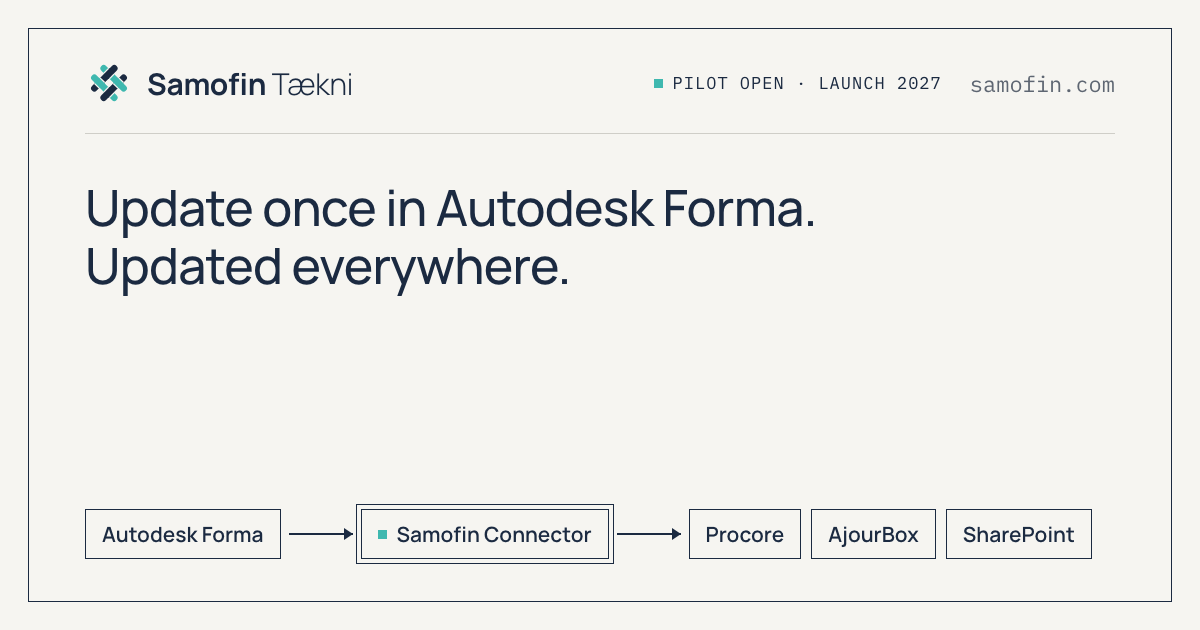
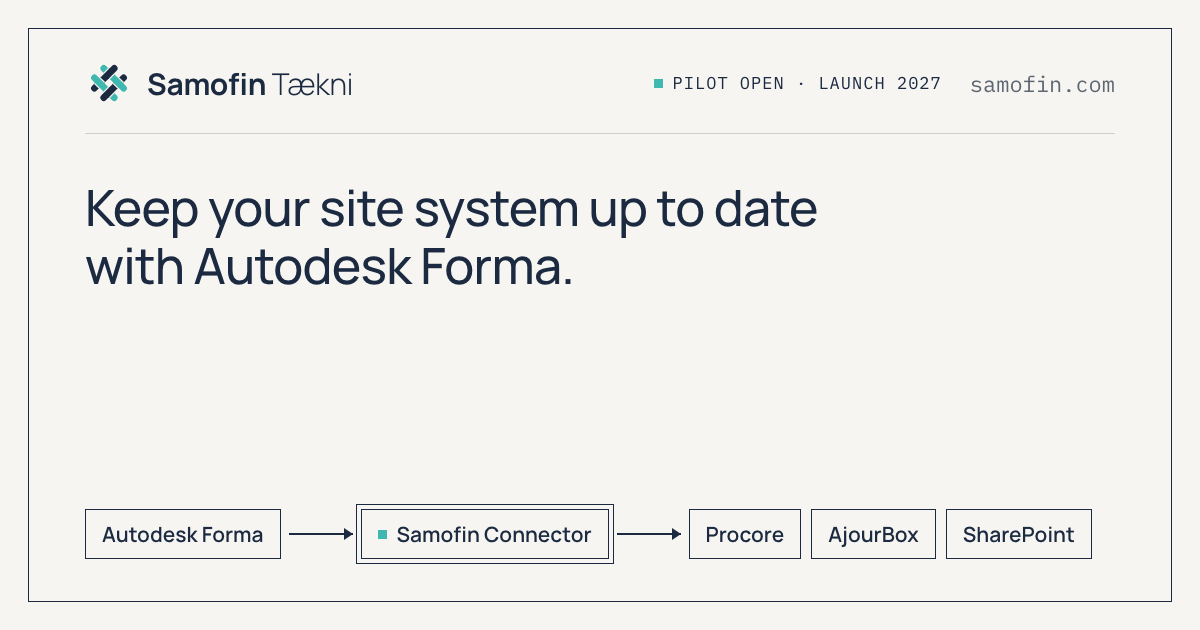
Rewrite site copy in plain language and drop slogan-style headlines

Changed region(s): [[0.0617, 0.3016, 0.6783, 0.3619], [0.0617, 0.3921, 0.4933, 0.4524]]

diff --git a/src/index.html b/src/index.html
@@ -4,7 +4,7 @@
 <meta charset="utf-8">
 <meta name="viewport" content="width=device-width, initial-scale=1">
 <title data-i18n="meta.title">Autodesk Forma (ACC) to Procore, AjourBox &amp; SharePoint – Samofin</title>
-<meta name="description" data-i18n-content="meta.description" content="Update once in Autodesk Forma, updated everywhere. Samofin Connector copies new drawings, models and documents to Procore, AjourBox and SharePoint.">
+<meta name="description" data-i18n-content="meta.description" content="Samofin Connector copies new drawings, models and documents from Autodesk Forma to Procore, AjourBox and SharePoint, so the site always works from the current revision.">
 <meta name="theme-color" content="#F6F5F1">
 <link rel="canonical" href="https://samofin.com/" data-i18n-href="url.self">
 <link rel="alternate" hreflang="en" href="https://samofin.com/">
@@ -15,7 +15,7 @@
 <meta property="og:locale" content="en_GB" data-i18n-content="og.locale">
 <meta property="og:locale:alternate" content="is_IS" data-i18n-content="og.locale.alternate">
 <meta property="og:title" content="Autodesk Forma (ACC) to Procore, AjourBox &amp; SharePoint – Samofin" data-i18n-content="meta.title">
-<meta property="og:description" content="Update once in Autodesk Forma, updated everywhere. Samofin Connector copies new drawings, models and documents to Procore, AjourBox and SharePoint." data-i18n-content="meta.description">
+<meta property="og:description" content="Samofin Connector copies new drawings, models and documents from Autodesk Forma to Procore, AjourBox and SharePoint, so the site always works from the current revision." data-i18n-content="meta.description">
 <meta property="og:site_name" content="Samofin Tækni">
 <meta property="og:image" content="https://samofin.com/og-image.png">
 <meta property="og:image:width" content="1200">
@@ -241,7 +241,7 @@ dl.rows dd { flex: 1 1 260px; margin: 0; font-size: 17px; line-height: 1.5; colo
           <a href="#problem" data-i18n="nav.problem">Problem</a>
           <a href="#how" data-i18n="nav.how">How it works</a>
           <a href="#files" data-i18n="nav.files">Files</a>
-          <a href="#principles" data-i18n="nav.principles">Principles</a>
+          <a href="#principles" data-i18n="nav.principles">Data handling</a>
           <a href="#pricing" data-i18n="nav.pricing">Pricing</a>
           <a href="#faq" data-i18n="nav.faq">FAQ</a>
         </nav>
@@ -256,8 +256,8 @@ dl.rows dd { flex: 1 1 260px; margin: 0; font-size: 17px; line-height: 1.5; colo
 
       <main>
         <section id="top" class="hero">
-          <h1 data-i18n="hero.title">Update once in Autodesk Forma, updated everywhere</h1>
-          <p data-i18n="hero.lede">Latest drawings, models and documents in Procore, AjourBox and SharePoint, automatically. Designers publish in Forma Data Management (formerly Autodesk Docs) as usual. Contractors get every new revision in their own system without downloading or re-uploading anything.</p>
+          <h1 data-i18n="hero.title">Keep Procore, AjourBox and SharePoint up to date with Autodesk Forma</h1>
+          <p data-i18n="hero.lede">Samofin Connector copies new drawings, models and documents from Forma Data Management (formerly Autodesk Docs) to the system your site team uses. Designers keep working in Forma as they do today, and the site team sees each new revision in its own system without anyone downloading and uploading files.</p>
           <div class="launch">
             <!--email_off--><a class="cta" href="mailto:hello@samofin.com?subject=Samofin%20Connector%20pilot&amp;body=Hi%2C%0D%0A%0D%0AWe%27d%20like%20to%20join%20the%20Samofin%20Connector%20pilot.%0D%0A%0D%0ACompany%3A%20%0D%0ATarget%20system%20%28Procore%20%2F%20AjourBox%20%2F%20SharePoint%29%3A%20%0D%0AProject%20we%27d%20start%20with%3A%20%0D%0AWhen%20we%27d%20like%20to%20start%3A%20%0D%0A%0D%0ABest%20regards%2C%0D%0A" data-i18n="hero.cta" data-i18n-href="hero.cta.href">Join the pilot</a><!--/email_off-->
             <span class="label" data-i18n="hero.status">Pilot places open now · general launch 2027</span>
@@ -268,9 +268,9 @@ dl.rows dd { flex: 1 1 260px; margin: 0; font-size: 17px; line-height: 1.5; colo
         </section>
 
         <section id="problem" class="split">
-          <h2 data-i18n="problem.title">Manual copying puts old drawings on site</h2>
+          <h2 data-i18n="problem.title">When files are copied by hand, the site falls behind</h2>
           <div>
-            <p data-i18n="problem.body">Architects and engineers publish in Forma Data Management, more and more often because the owner requires it. Site work and quality control run in Procore, AjourBox or SharePoint. So someone copies every revision across by hand. It takes time every week, and one missed revision means building from an outdated drawing.</p>
+            <p data-i18n="problem.body">Architects and engineers publish their drawings in Forma Data Management, increasingly because the building owner asks for it. Contractors, however, run site work and quality control in Procore, AjourBox or SharePoint. Someone has to copy each revision from one system to the other. It is repetitive work, and a single missed revision can mean building from an outdated drawing.</p>
             <figure class="fig-block">
               <div class="drift" role="table" aria-label="Drawing versions in Forma and on site" data-i18n-aria-label="drift.table.label">
                 <div class="drift-row drift-head" role="row"><span role="columnheader" data-i18n="drift.drawing">DRAWING</span><span role="columnheader">FORMA</span><span role="presentation"></span><span role="columnheader" data-i18n="drift.site">SITE</span><span role="columnheader" data-i18n="drift.status">STATUS</span></div>
@@ -282,13 +282,13 @@ dl.rows dd { flex: 1 1 260px; margin: 0; font-size: 17px; line-height: 1.5; colo
                 <span><span class="sw-hand"></span><span data-i18n="drift.legend.hand">copied by hand</span></span>
                 <span><span class="sw-stale stale"></span><span data-i18n="drift.legend.stale">outdated on site</span></span>
               </div>
-              <figcaption data-i18n="drift.caption">Fig. 1 · Example. Forma has the latest revision; the site system has whatever was last copied across.</figcaption>
+              <figcaption data-i18n="drift.caption">Fig. 1 · Example. Forma holds the latest revision. The site system holds the last one someone copied.</figcaption>
             </figure>
           </div>
         </section>
 
         <section id="how" class="split">
-          <h2 data-i18n="how.title">Set up once, synced from then on</h2>
+          <h2 data-i18n="how.title">After setup, new revisions are copied automatically</h2>
           <div>
             <figure>
               <div class="dia-wide" aria-hidden="true">
@@ -338,22 +338,22 @@ dl.rows dd { flex: 1 1 260px; margin: 0; font-size: 17px; line-height: 1.5; colo
                 </div>
               </div>
 
-              <figcaption data-i18n="fig.caption">Fig. 2 · A new version of S-101 in Forma Data Management is copied to each target and logged.</figcaption>
+              <figcaption data-i18n="fig.caption">Fig. 2 · When S-101 moves to V4 in Forma Data Management, the connector copies it to each site system and logs the copy.</figcaption>
             </figure>
 
             <ol class="rows steps">
-              <li><span class="n">1</span><span class="t" data-i18n="step.connect.t">Connect</span><span class="d" data-i18n="step.connect.d">Your Autodesk admin adds Samofin Connector as a custom integration with read-only access.</span></li>
-              <li><span class="n">2</span><span class="t" data-i18n="step.map.t">Map</span><span class="d" data-i18n="step.map.d">Together we choose which Autodesk folders sync to which folders in your site system.</span></li>
-              <li><span class="n">3</span><span class="t" data-i18n="step.review.t">Review</span><span class="d" data-i18n="step.review.d">Before anything is copied, you review a dry run showing exactly what will be created.</span></li>
-              <li><span class="n">4</span><span class="t" data-i18n="step.sync.t">Sync</span><span class="d" data-i18n="step.sync.d">New versions are copied automatically, and every copy is logged.</span></li>
+              <li><span class="n">1</span><span class="t" data-i18n="step.connect.t">Connect</span><span class="d" data-i18n="step.connect.d">Your Autodesk administrator gives Samofin Connector read-only access as a custom integration.</span></li>
+              <li><span class="n">2</span><span class="t" data-i18n="step.map.t">Link folders</span><span class="d" data-i18n="step.map.d">We work with you to decide which Autodesk folders go to which folders in your site system.</span></li>
+              <li><span class="n">3</span><span class="t" data-i18n="step.review.t">Review</span><span class="d" data-i18n="step.review.d">Before anything is copied, you see a test run that lists every file the connector will create.</span></li>
+              <li><span class="n">4</span><span class="t" data-i18n="step.sync.t">Sync</span><span class="d" data-i18n="step.sync.d">From then on, each new revision is copied automatically and recorded in the log.</span></li>
             </ol>
           </div>
         </section>
 
         <section id="files" class="split">
-          <h2 data-i18n="files.title">Same folders, every version</h2>
+          <h2 data-i18n="files.title">Every revision goes to the matching folder</h2>
           <div>
-            <p data-i18n="files.body">A folder in Forma Data Management is mapped to a folder in the target system. Each new version is copied into it, and the log shows which version was copied, when, and where to.</p>
+            <p data-i18n="files.body">Each folder in Forma Data Management is linked to a folder in your site system. When a file changes, the new version is copied to the linked folder, and the log records which version went where and when.</p>
 
             <figure class="fig-block">
               <div class="trees">
@@ -369,7 +369,7 @@ dl.rows dd { flex: 1 1 260px; margin: 0; font-size: 17px; line-height: 1.5; colo
                   </div>
                 </div>
                 <div class="tree">
-                  <div class="tree-head"><span class="label" data-i18n="files.tgt">TARGET SYSTEM</span><span class="mode" data-i18n="files.write">write</span></div>
+                  <div class="tree-head"><span class="label" data-i18n="files.tgt">SITE SYSTEM</span><span class="mode" data-i18n="files.write">write</span></div>
                   <div class="tree-body">
                     <div><span class="p" data-i18n="files.root.tgt">Documents</span></div>
                     <div><span class="p">└─ <span data-i18n="files.dir.drawings">Drawings</span></span></div>
@@ -381,8 +381,8 @@ dl.rows dd { flex: 1 1 260px; margin: 0; font-size: 17px; line-height: 1.5; colo
                 </div>
               </div>
               <div class="legend">
-                <span><span class="dot"></span><span data-i18n="files.legend.mapped">mapped folder</span></span>
-                <span data-i18n="files.legend.flagged">flagged: removed in source, kept in target</span>
+                <span><span class="dot"></span><span data-i18n="files.legend.mapped">linked folder</span></span>
+                <span data-i18n="files.legend.flagged">flagged: deleted in Forma, kept in the site system</span>
               </div>
 
               <div class="vh">
@@ -399,24 +399,24 @@ dl.rows dd { flex: 1 1 260px; margin: 0; font-size: 17px; line-height: 1.5; colo
         </section>
 
         <section id="principles" class="split">
-          <h2 data-i18n="principles.title">Safeguards built in</h2>
+          <h2 data-i18n="principles.title">How your data is handled</h2>
           <div>
             <dl class="rows">
-              <div><dt data-i18n="p.oneway.t">One-way</dt><dd data-i18n="p.oneway.d">Reads from the source, never writes to it.</dd></div>
-              <div><dt data-i18n="p.nodelete.t">Never deletes</dt><dd data-i18n="p.nodelete.d">Nothing is deleted in your site system. Files removed in Autodesk are flagged for review.</dd></div>
-              <div><dt data-i18n="p.versions.t">Versions, not copies</dt><dd data-i18n="p.versions.d">A new revision becomes a new version of the same file, so history stays in one place.</dd></div>
-              <div><dt data-i18n="p.logged.t">Traceable</dt><dd data-i18n="p.logged.d">An append-only log of every file and version: what was copied, when and where.</dd></div>
-              <div><dt data-i18n="p.nostore.t">Nothing stored</dt><dd data-i18n="p.nostore.d">Files stream straight from Autodesk to your site system and are never kept. Only the log is stored.</dd></div>
-              <div><dt data-i18n="p.eu.t">EU-hosted</dt><dd data-i18n="p.eu.d">Runs in the EU (Google Cloud, Finland), so project data stays under EU data-protection law.</dd></div>
+              <div><dt data-i18n="p.oneway.t">Read-only in Autodesk</dt><dd data-i18n="p.oneway.d">The connector reads from Forma Data Management and never writes to it.</dd></div>
+              <div><dt data-i18n="p.nodelete.t">Nothing is deleted</dt><dd data-i18n="p.nodelete.d">The connector does not delete files in your site system. If a file is removed in Autodesk, it is flagged for you to review.</dd></div>
+              <div><dt data-i18n="p.versions.t">Full version history</dt><dd data-i18n="p.versions.d">Each revision is added as a new version of the existing file, so the file’s history stays in one place.</dd></div>
+              <div><dt data-i18n="p.logged.t">Complete log</dt><dd data-i18n="p.logged.d">Every copy is recorded: which file and version, when, and where it went. Log entries cannot be changed.</dd></div>
+              <div><dt data-i18n="p.nostore.t">No file storage</dt><dd data-i18n="p.nostore.d">Files pass straight from Autodesk to your site system and are not kept by the connector. Only the log is stored.</dd></div>
+              <div><dt data-i18n="p.eu.t">Hosted in the EU</dt><dd data-i18n="p.eu.d">The connector runs on Google Cloud in Finland, so project data stays under EU data-protection law.</dd></div>
             </dl>
           </div>
         </section>
 
         <section id="pricing" class="split">
-          <h2 data-i18n="pricing.title">Priced per project, not per user</h2>
+          <h2 data-i18n="pricing.title">A fixed monthly price for each project</h2>
           <div>
-            <p><span data-i18n="pricing.body">A one-time setup, then a fixed monthly fee for each active project. Your whole team uses it at no extra cost. Finished projects are archived free: syncing stops, and everything already copied stays in your site system. Tell us about your projects and we will send a quote.</span></p>
-            <p class="pricing-cta"><!--email_off--><a class="cta" href="mailto:hello@samofin.com?subject=Quote%20for%20Samofin%20Connector&amp;body=Hi%2C%0D%0A%0D%0AWe%27d%20like%20a%20quote%20for%20Samofin%20Connector.%0D%0A%0D%0ACompany%3A%20%0D%0ATarget%20system%20%28Procore%20%2F%20AjourBox%20%2F%20SharePoint%29%3A%20%0D%0ANumber%20of%20active%20projects%3A%20%0D%0AWhen%20we%27d%20like%20to%20start%3A%20%0D%0A%0D%0ABest%20regards%2C%0D%0A" data-i18n="pricing.cta" data-i18n-href="pricing.href">Get a quote</a><!--/email_off--></p>
+            <p><span data-i18n="pricing.body">There is a one-time setup fee, then a fixed monthly fee for each active project. Everyone on your team can use it, with no per-user charges. When a project ends, syncing stops and we archive it free of charge. Files already copied stay in your site system. Tell us about your projects and we will send you a quote.</span></p>
+            <p class="pricing-cta"><!--email_off--><a class="cta" href="mailto:hello@samofin.com?subject=Quote%20for%20Samofin%20Connector&amp;body=Hi%2C%0D%0A%0D%0AWe%27d%20like%20a%20quote%20for%20Samofin%20Connector.%0D%0A%0D%0ACompany%3A%20%0D%0ATarget%20system%20%28Procore%20%2F%20AjourBox%20%2F%20SharePoint%29%3A%20%0D%0ANumber%20of%20active%20projects%3A%20%0D%0AWhen%20we%27d%20like%20to%20start%3A%20%0D%0A%0D%0ABest%20regards%2C%0D%0A" data-i18n="pricing.cta" data-i18n-href="pricing.href">Request a quote</a><!--/email_off--></p>
           </div>
         </section>
 
@@ -424,13 +424,13 @@ dl.rows dd { flex: 1 1 260px; margin: 0; font-size: 17px; line-height: 1.5; colo
           <h2 data-i18n="faq.title">Questions and answers</h2>
           <div>
             <dl class="rows faq">
-              <div><dt data-i18n="faq.types.q">Which file types are synced?</dt><dd data-i18n="faq.types.a">All of them. Every file in a mapped folder is copied as it is: PDF, DWG, IFC, RVT, Office files and anything else.</dd></div>
-              <div><dt data-i18n="faq.speed.q">How fast does a new version arrive?</dt><dd data-i18n="faq.speed.a">Within the hour. Mapped folders are checked for changes every 15 minutes by default.</dd></div>
-              <div><dt data-i18n="faq.perms.q">What access does it need?</dt><dd data-i18n="faq.perms.a">Read-only access to Forma Data Management, which your Autodesk account admin grants as a custom integration. In your site system, a dedicated service account with access only to the projects or sites you choose. It never writes to Autodesk and never deletes anything.</dd></div>
-              <div><dt data-i18n="faq.setup.q">How long does setup take?</dt><dd data-i18n="faq.setup.a">A few weeks from agreement to go-live. We set up the folder mapping with you, you review a dry run, and the connector then runs alongside your current process for one to two weeks before you switch over.</dd></div>
-              <div><dt data-i18n="faq.revisions.q">What happens when a drawing is revised?</dt><dd data-i18n="faq.revisions.a">The new revision is added as a new version of the same file in your site system, so the history is kept and nothing is duplicated. Older versions are never removed, and renamed or moved files are tracked rather than uploaded again.</dd></div>
-              <div><dt data-i18n="faq.targets.q">Which systems does it support?</dt><dd data-i18n="faq.targets.a">Forma Data Management (formerly Autodesk Docs, part of Autodesk Construction Cloud) as the source, and Procore, AjourBox and SharePoint as targets. One Autodesk project can feed several targets at once.</dd></div>
-              <div><dt data-i18n="faq.start.q">When can we start?</dt><dd data-i18n="faq.start.a">Now. Samofin Connector launches in 2027, and pilot customers are onboarded first and help shape what comes next.</dd></div>
+              <div><dt data-i18n="faq.types.q">Which file types can it copy?</dt><dd data-i18n="faq.types.a">Any file type. The connector copies every file in a linked folder unchanged, including PDF, DWG, IFC, RVT and Office files.</dd></div>
+              <div><dt data-i18n="faq.speed.q">How quickly do new revisions appear?</dt><dd data-i18n="faq.speed.a">Within an hour. By default, the connector checks linked folders for changes every 15 minutes.</dd></div>
+              <div><dt data-i18n="faq.perms.q">What access does it need?</dt><dd data-i18n="faq.perms.a">In Autodesk, it needs read-only access to Forma Data Management. Your Autodesk administrator grants this as a custom integration. In your site system, it uses its own service account, limited to the projects or sites you choose. It never writes to Autodesk and never deletes anything.</dd></div>
+              <div><dt data-i18n="faq.setup.q">How long does setup take?</dt><dd data-i18n="faq.setup.a">Usually a few weeks from signing to going live. We link the folders with you and you review a test run. The connector then runs alongside your current process for one to two weeks before you switch over.</dd></div>
+              <div><dt data-i18n="faq.revisions.q">What happens when a drawing is revised?</dt><dd data-i18n="faq.revisions.a">The new revision is added as a new version of the existing file in your site system, so its history is kept and nothing is duplicated. Older versions are never removed. If a file is renamed or moved, the connector follows it instead of uploading it again.</dd></div>
+              <div><dt data-i18n="faq.targets.q">Which systems does it support?</dt><dd data-i18n="faq.targets.a">The source is Forma Data Management (formerly Autodesk Docs, part of Autodesk Construction Cloud). The connector copies to Procore, AjourBox and SharePoint, and one Autodesk project can send to several of them at once.</dd></div>
+              <div><dt data-i18n="faq.start.q">When can we start?</dt><dd data-i18n="faq.start.a">Pilot places are open now. Samofin Connector is generally available from 2027. Pilot customers are set up first and have a say in what we build next.</dd></div>
             </dl>
           </div>
         </section>
@@ -438,7 +438,7 @@ dl.rows dd { flex: 1 1 260px; margin: 0; font-size: 17px; line-height: 1.5; colo
 
       <footer class="site-footer">
         <div class="footer-lead">
-          <p><span data-i18n="footer.cta">Questions or a quote?</span><br><a href="mailto:hello@samofin.com">hello@samofin.com</a></p>
+          <p><span data-i18n="footer.cta">Get in touch</span><br><a href="mailto:hello@samofin.com">hello@samofin.com</a></p>
           <p class="founder"><span data-i18n="footer.founder">I’m Skúli Arnarsson, the software developer behind Samofin Connector. Pilot customers work directly with me.</span> <a href="mailto:skuli@samofin.com">skuli@samofin.com</a> · <a href="https://www.linkedin.com/in/skulipardus/" target="_blank" rel="noopener">LinkedIn</a></p>
         </div>
 

diff --git a/src/404.html b/src/404.html
@@ -22,7 +22,7 @@ a { color: #1B2A41; text-decoration: underline; text-decoration-color: #3FB8AF; 
 <body>
 <main>
   <div class="label">404 · NOT FOUND</div>
-  <h1>There is no sheet at this address</h1>
+  <h1>This page does not exist</h1>
   <p>The page may have moved. Go to the <a href="/">English home page</a> or write to <a href="mailto:hello@samofin.com">hello@samofin.com</a>.</p>
   <p lang="is">Síðan fannst ekki. Farðu á <a href="/is/">íslensku forsíðuna</a> eða skrifaðu á <a href="mailto:hello@samofin.com">hello@samofin.com</a>.</p>
 </main>

diff --git a/og/og-image.html b/og/og-image.html
@@ -31,7 +31,7 @@ h1 { margin: 44px 0 0; max-width: 1000px; font-size: 50px; line-height: 1.16; fo
     <div class="brand"><img src="../src/samofin-mark.svg" alt=""><div>Samofin <span>Tækni</span></div></div>
     <div class="meta"><div class="status">PILOT OPEN · LAUNCH 2027</div><div class="url">samofin.com</div></div>
   </div>
-  <h1>Update once in Autodesk Forma.<br>Updated everywhere.</h1>
+  <h1>Keep your site system up to date<br>with Autodesk Forma.</h1>
   <div class="bottom">
     <div class="flow">
       <div class="box">Autodesk Forma</div>
